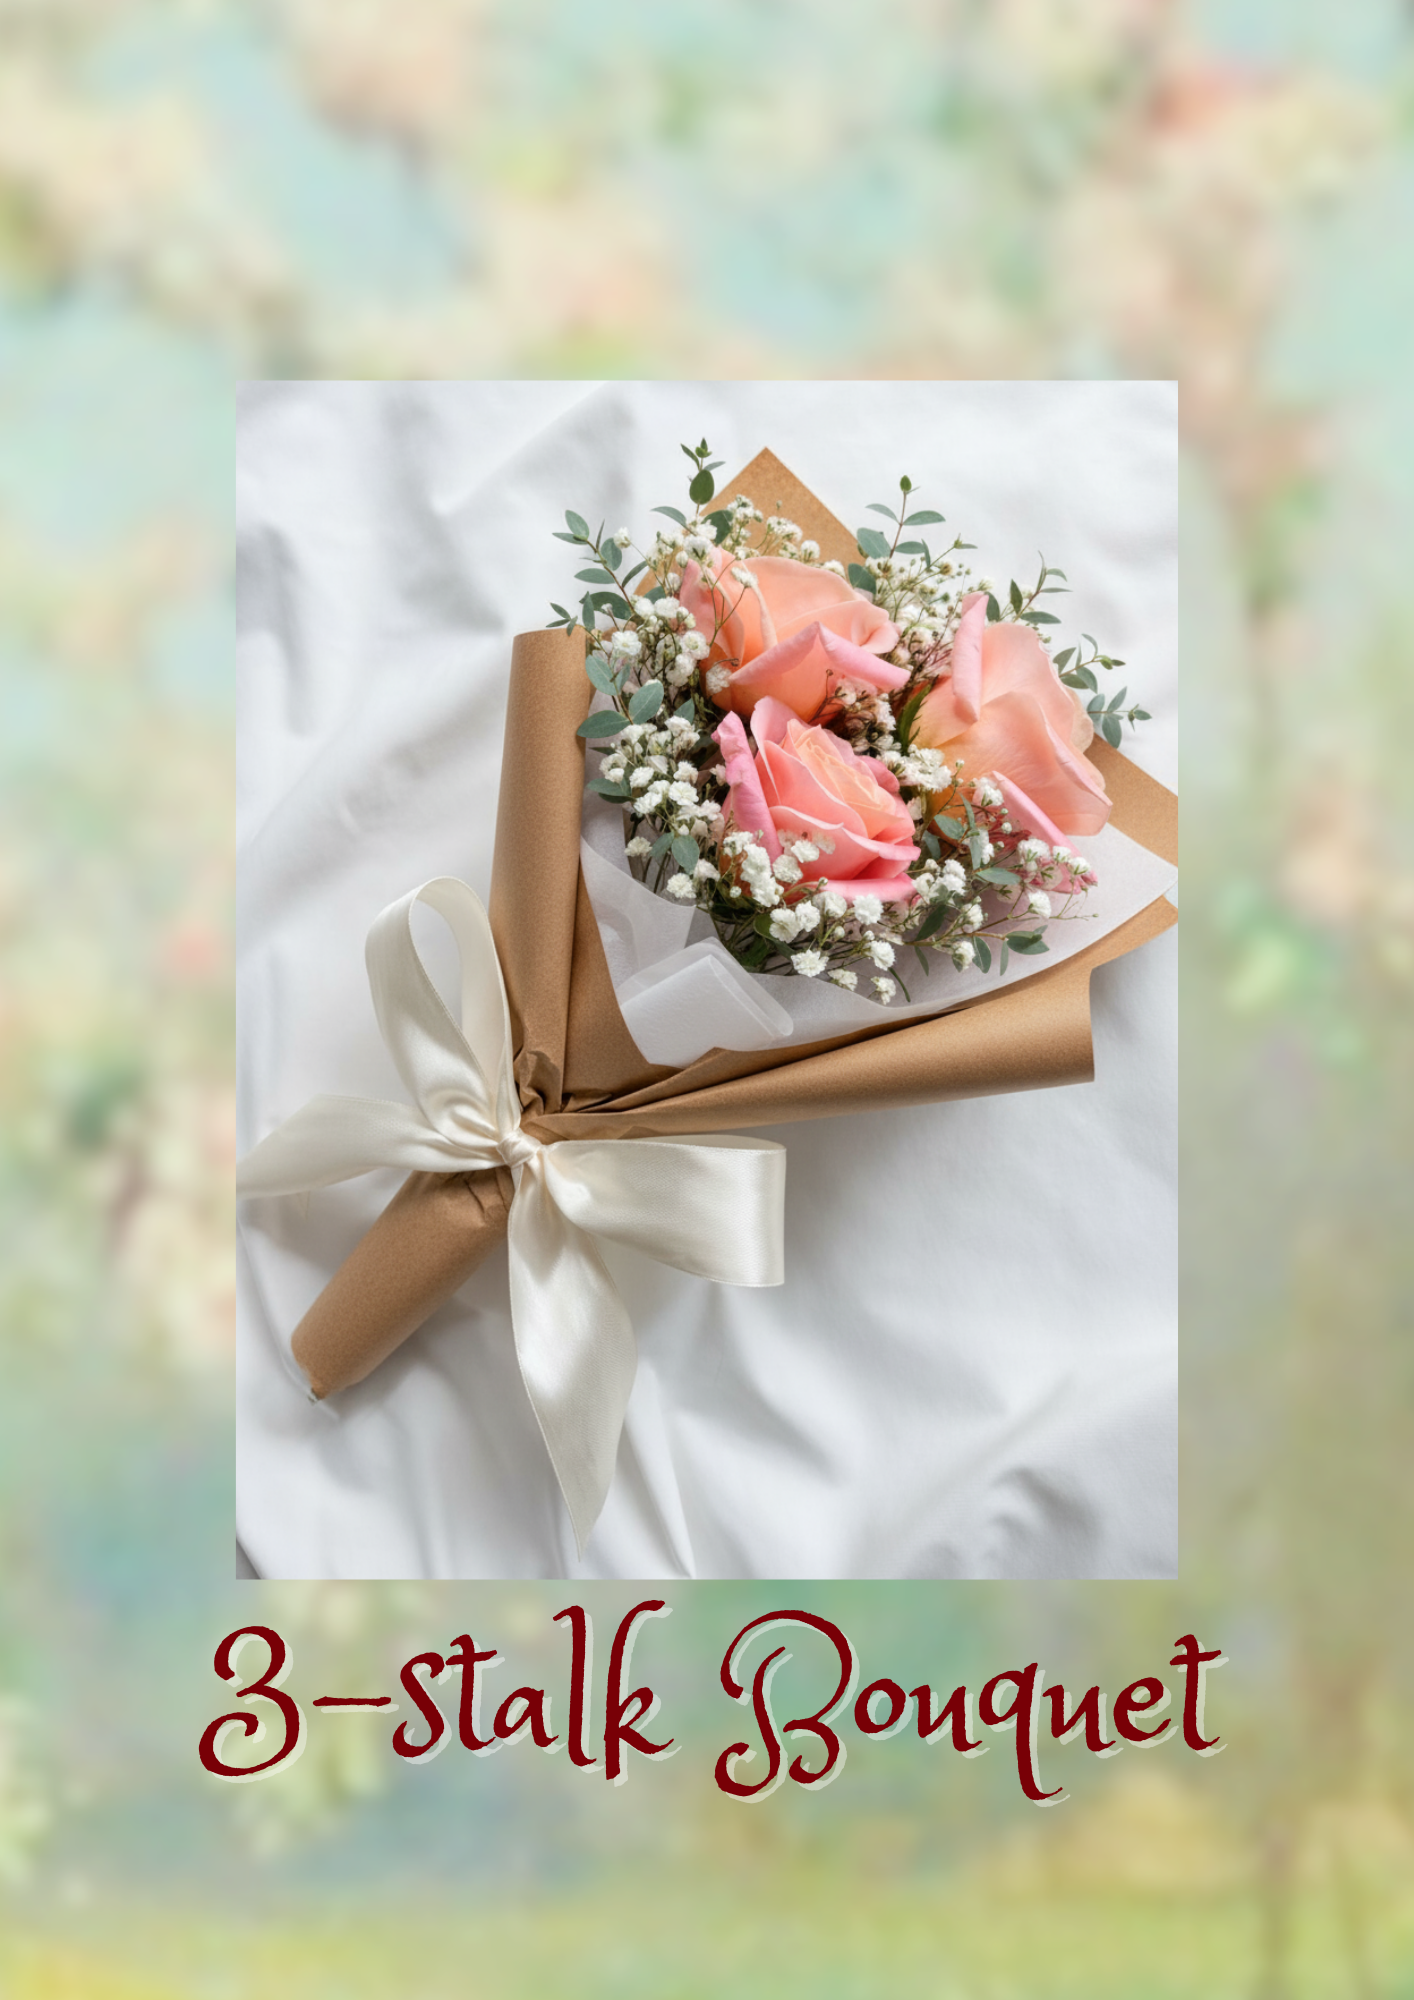
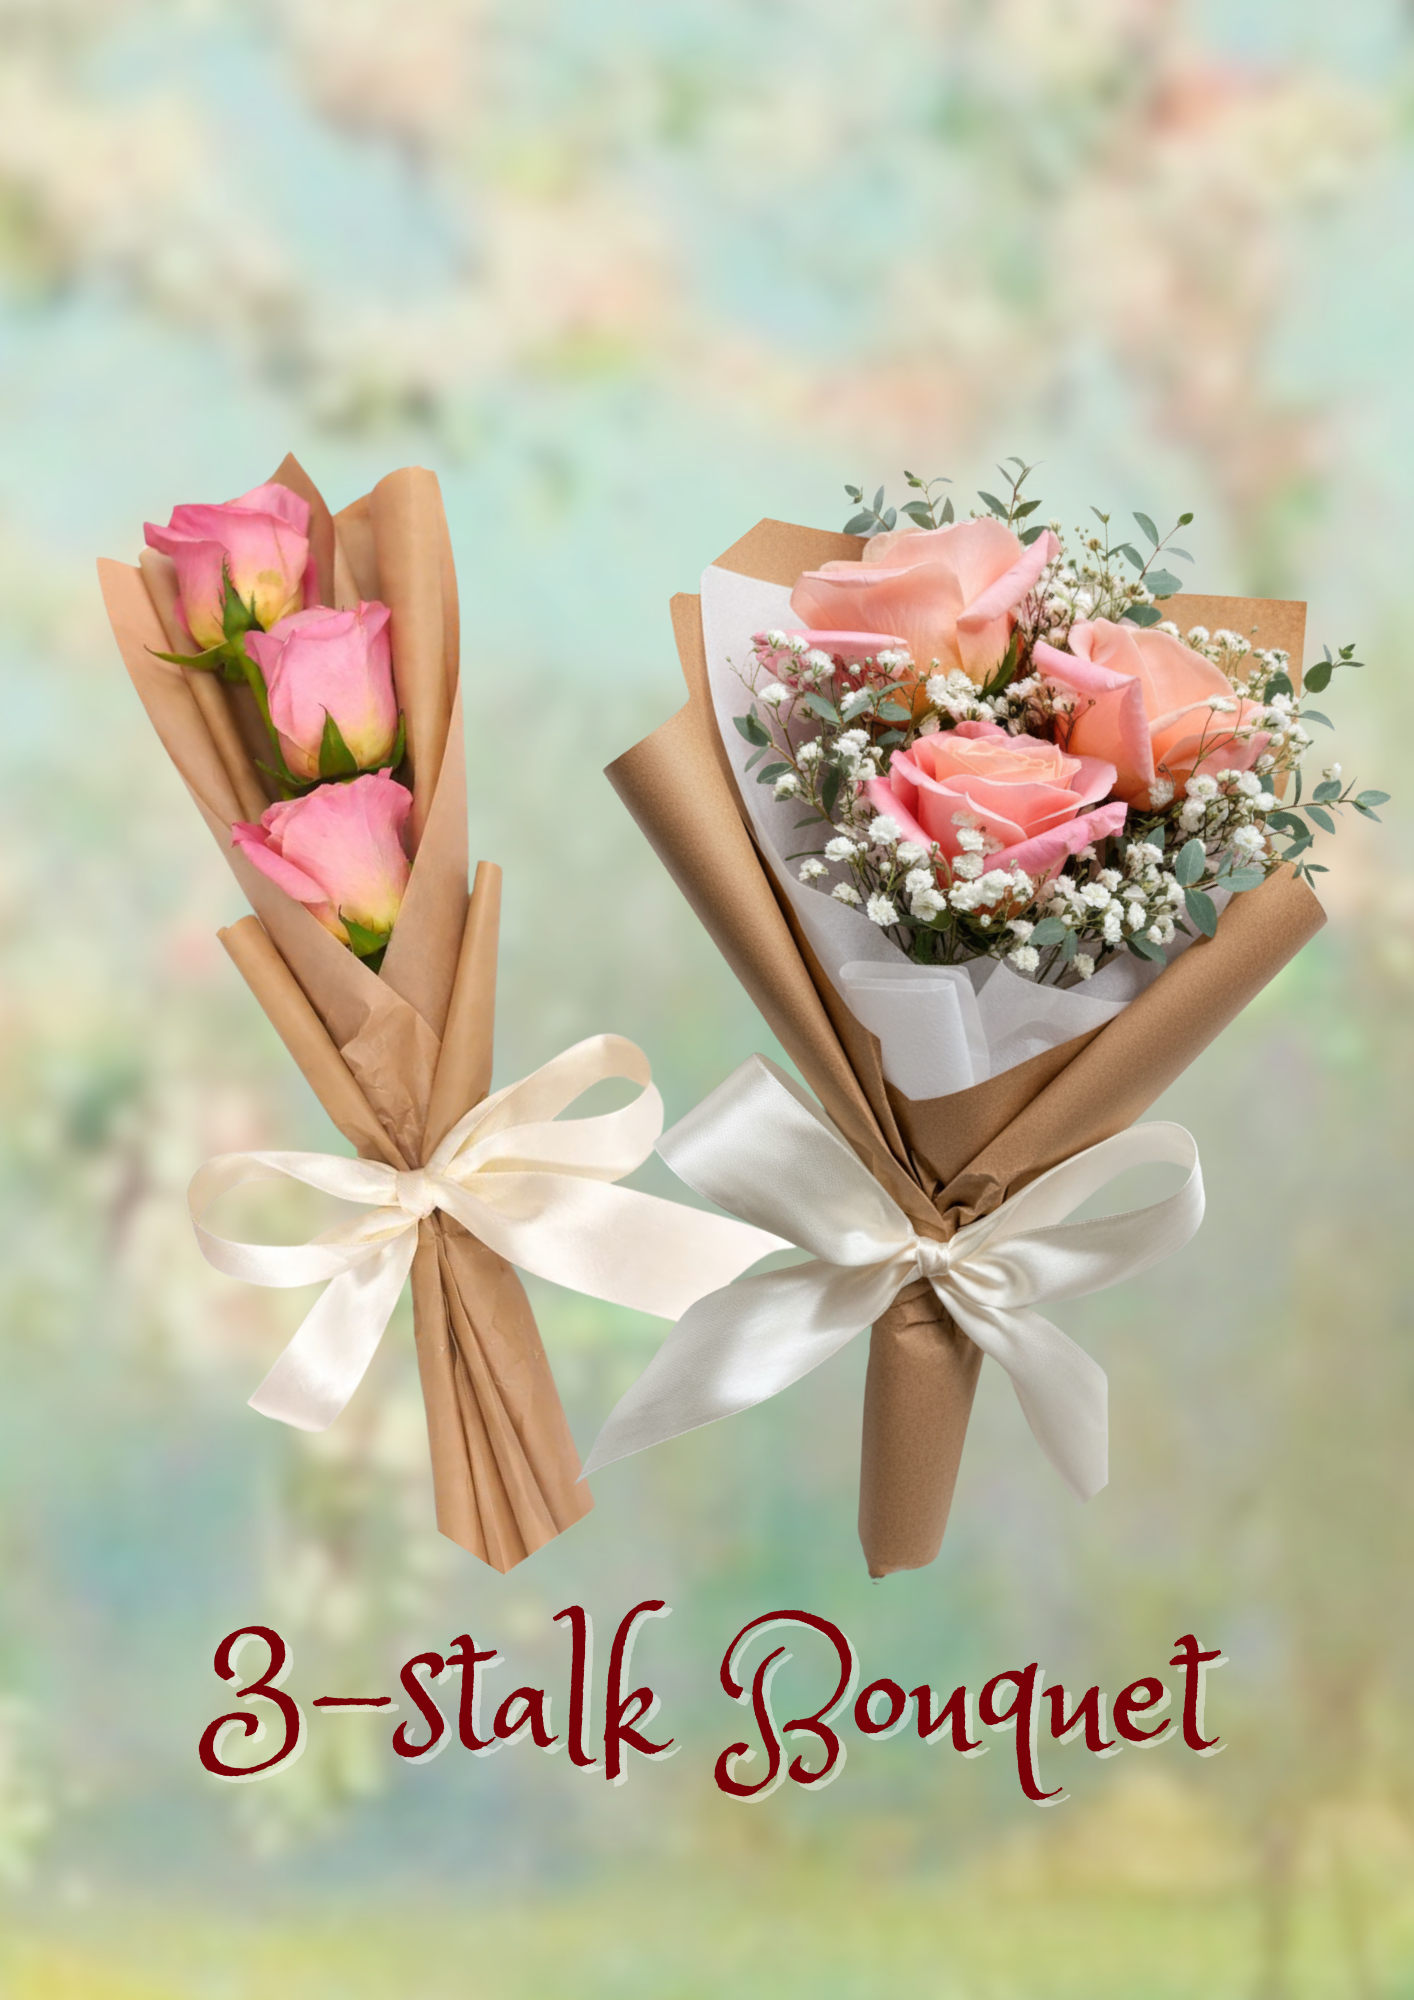
ADD: Updated photos for bouquet and wrapping paper

diff --git a/src/components/ProductCard.vue b/src/components/ProductCard.vue
@@ -70,6 +70,7 @@ const carouselImages = computed(() => {
     // Add logic to show individual flower types as valid options
     images.push('/Bouquet Flowers.png')
     images.push('/Bouquet Filler Flowers.png')
+    images.push('/Wrapping Paper.png')
   }
 
   // 2. INDIVIDUAL FLOWERS
@@ -85,7 +86,7 @@ const carouselImages = computed(() => {
   } else if (props.product.name === 'Card Holder') {
     images.push('/Cardholder.png')
   } else if (props.product.name === 'Wrapping Service') {
-    images.push('/Bouquet Set of 3.png') // TODO: Change placeholder
+    images.push('/Wrapping Paper.png')
   }
 
   // Fallback if no image found (though strictly shouldn't happen with current data)
